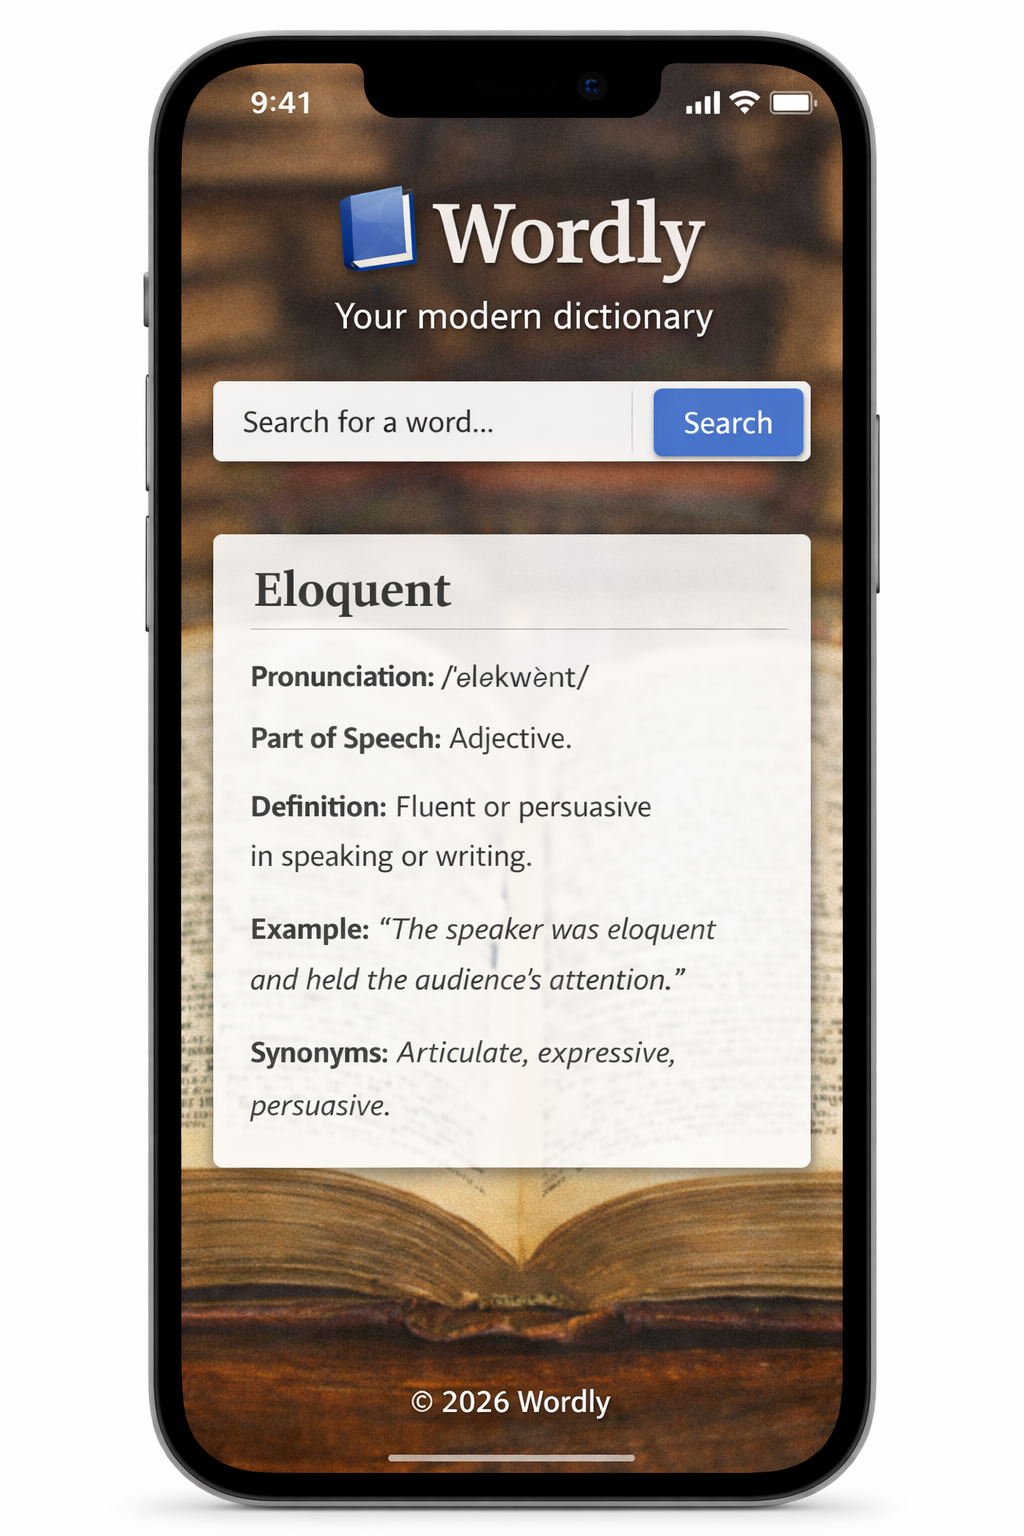
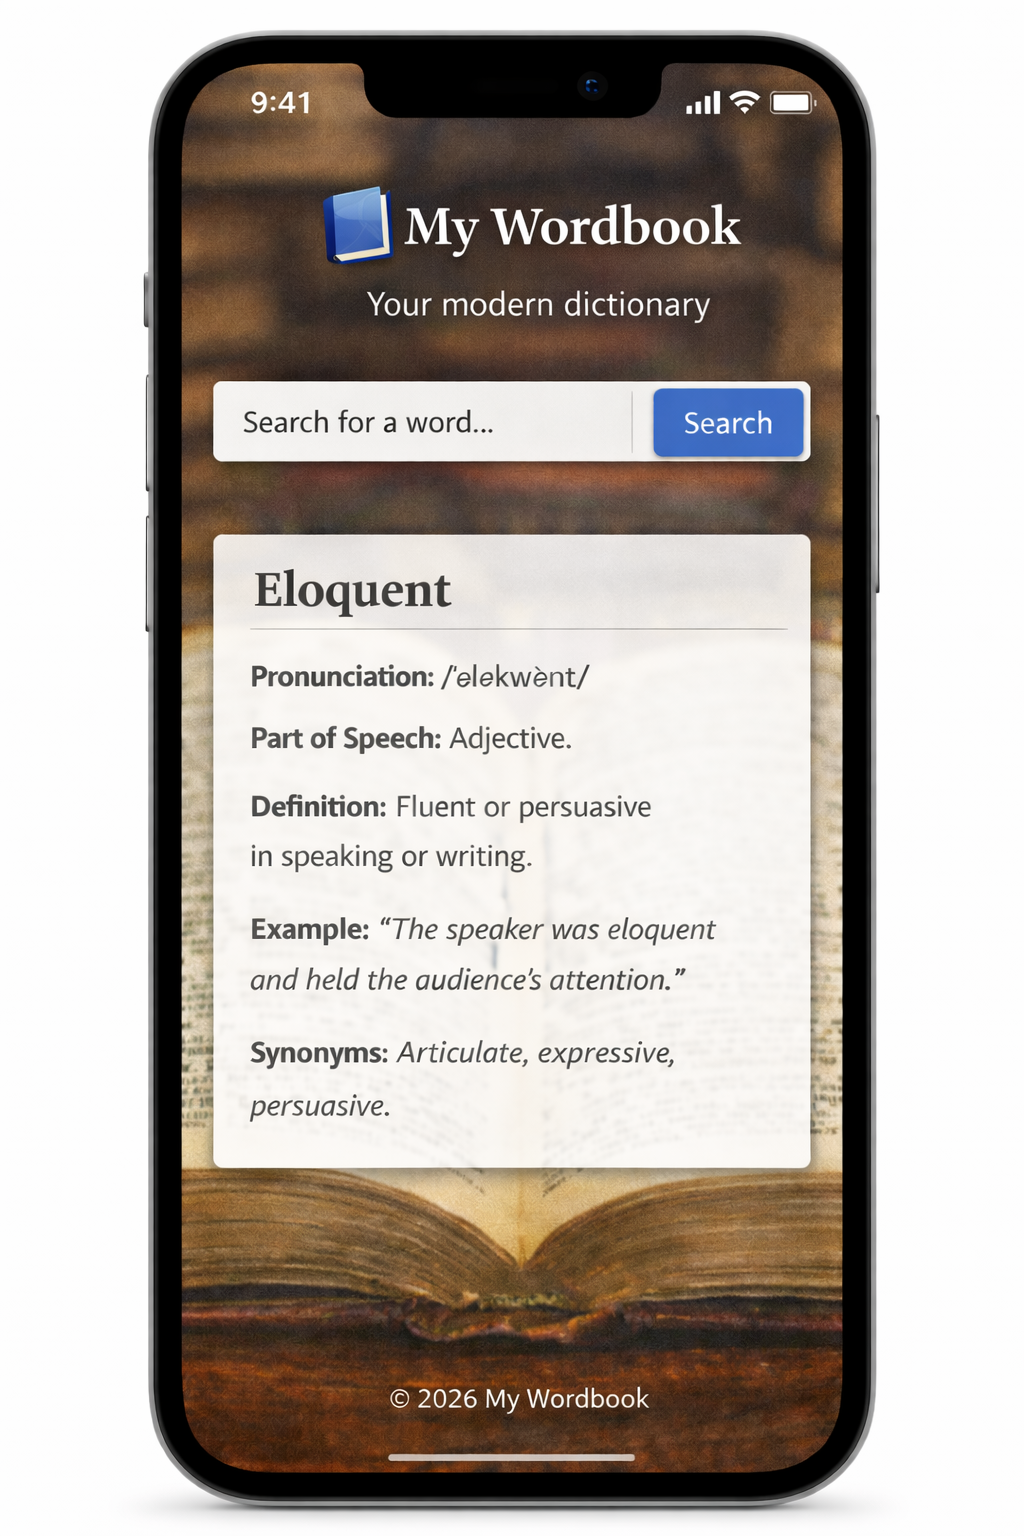
ReadMe Changes

Changed region(s): [[0.3125, 0.125, 0.7188, 0.25], [0.375, 0.9062, 0.625, 0.9375], [0.2188, 0.2188, 0.3125, 0.25]]

diff --git a/README.md b/README.md
@@ -1,13 +1,13 @@
-# 📘 Wordly – Dictionary Single Page Application (SPA)
+# 📘 My Wordbook – Dictionary Single Page Application (SPA)
 
 ## Application Preview
 
-![Wordly Dictionary Webpage Preview](images/Web.png)
+![My Wordbook Dictionary Webpage Preview](images/Web.png)
 
-![Wordly Dictionary Webpage Preview](images/Mobile.png)
+![My Wordbook Dictionary Webpage Preview](images/Mobile.png)
 
 ## Project Overview
-Wordly is a Single Page Application (SPA) built using **HTML, CSS, and JavaScript**. The application allows users to search for a word and retrieve dictionary information such as pronunciation, definitions, part of speech, example usage, and synonyms. The app dynamically fetches data from an external Dictionary API and updates the page without reloading.
+My Wordbook is a Single Page Application (SPA) built using **HTML, CSS, and JavaScript**. The application allows users to search for a word and retrieve dictionary information such as pronunciation, definitions, part of speech, example usage, and synonyms. The app dynamically fetches data from an external Dictionary API and updates the page without reloading.
 
 This project was developed as a summative lab to demonstrate core JavaScript skills, API integration, DOM manipulation, and modern web development practices.
 
